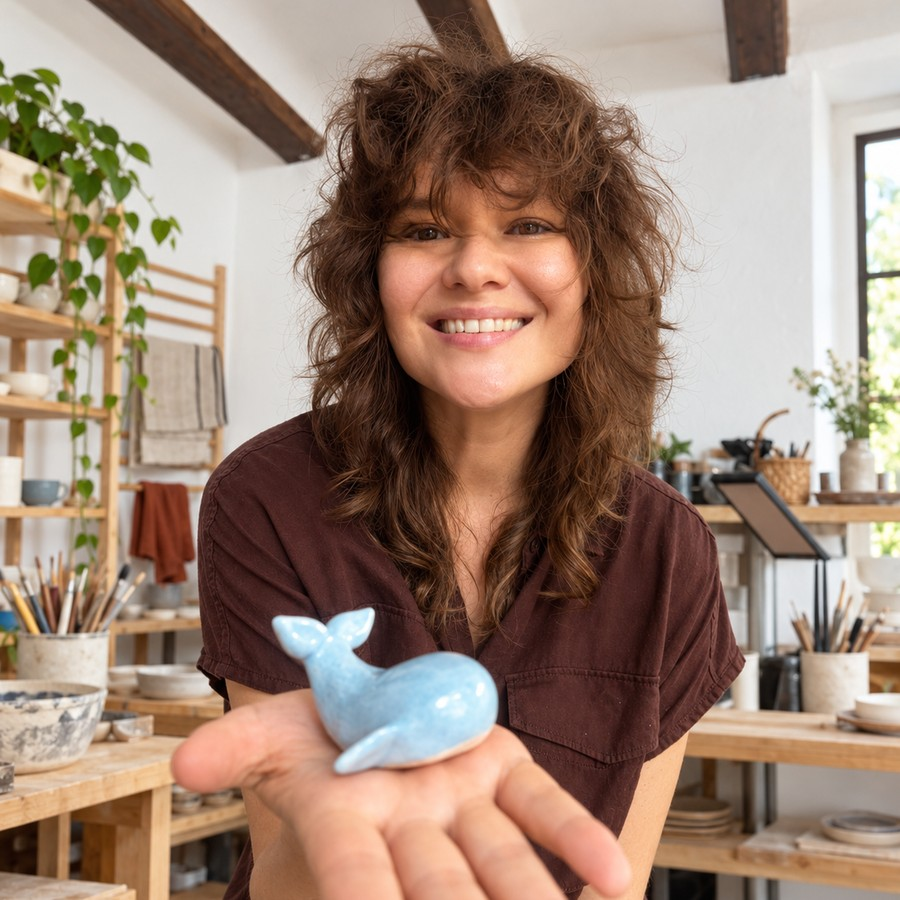
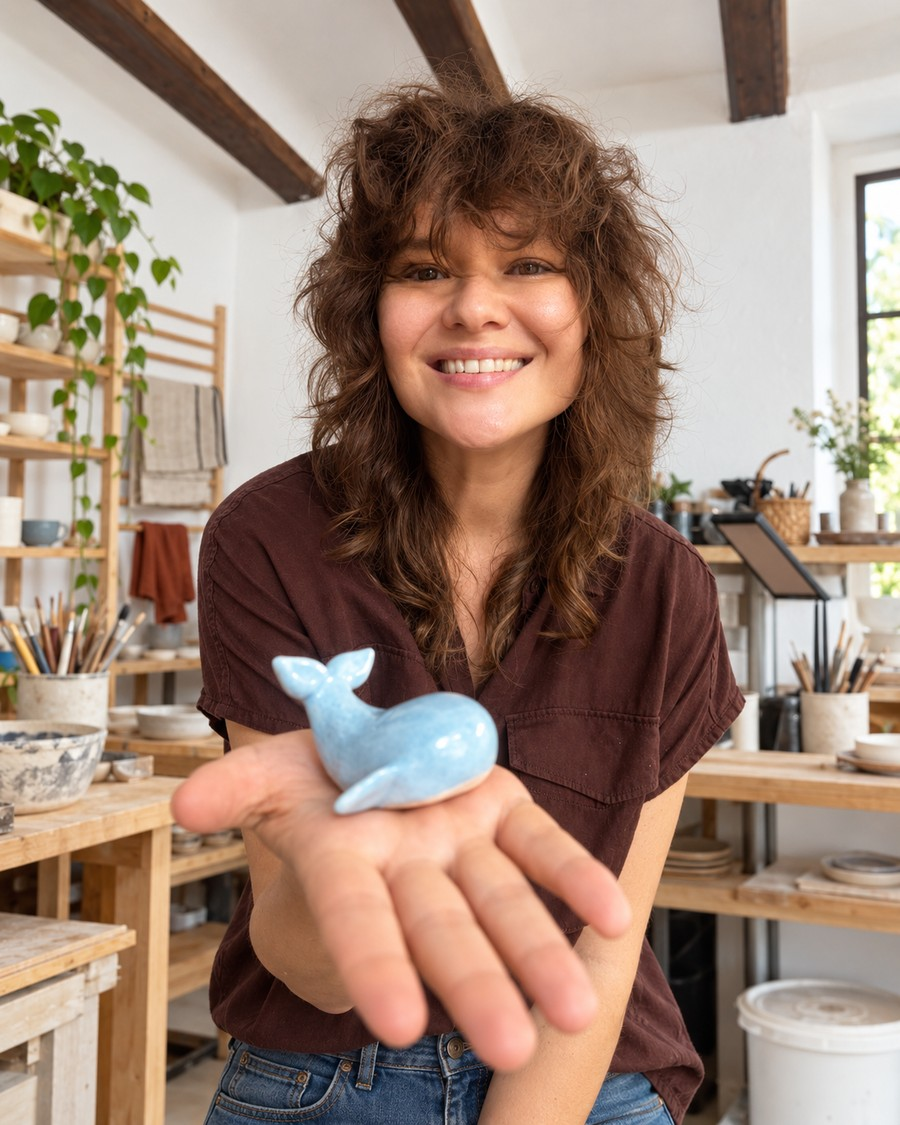
Max zoom-out Vita photo: full source height, top-biased crop
900×1125 from full 1122×1402 source (no height crop).
object-position: center 15% shows face+body+whale instead of center mass.

diff --git a/index.html b/index.html
@@ -264,7 +264,7 @@
       </div>
     </div></div></section>
 
-    <section id="people"><div class="wrap"><div class="makers__count"><span>50+</span> students through the studio since May 2026</div><div class="section-head"><div class="kicker">Who you’ll meet</div><h2 class="section-title">Artists who teach by making beside you.</h2></div><div class="makers"><article class="maker"><img src="assets/images/hero-1.jpg" alt="Korytsia teaching in her orange kimono at Saged.club"><div class="maker__text"><span class="maker__tag">Ceramic artist · Ukrainian / Russian</span><h3>Korytsia</h3><p>Slow, tactile hand-building with attention to the material. Korytsia leads children’s classes, family sessions and weekend workshops.</p></div></article><article class="maker"><img src="assets/images/vita-portrait.jpg" alt="Vita holding one of her colourful ceramic pieces" ><div class="maker__text"><span class="maker__tag">Ceramic instructor · English / Spanish</span><h3>Vita</h3><p>Friendly guided sessions for adults and kids—clear enough for a first experience, open enough to make the piece your own.</p></div></article></div></div></section>
+    <section id="people"><div class="wrap"><div class="makers__count"><span>50+</span> students through the studio since May 2026</div><div class="section-head"><div class="kicker">Who you’ll meet</div><h2 class="section-title">Artists who teach by making beside you.</h2></div><div class="makers"><article class="maker"><img src="assets/images/hero-1.jpg" alt="Korytsia teaching in her orange kimono at Saged.club"><div class="maker__text"><span class="maker__tag">Ceramic artist · Ukrainian / Russian</span><h3>Korytsia</h3><p>Slow, tactile hand-building with attention to the material. Korytsia leads children’s classes, family sessions and weekend workshops.</p></div></article><article class="maker"><img src="assets/images/vita-portrait.jpg" alt="Vita holding one of her colourful ceramic pieces" style="object-position:center 15%;"><div class="maker__text"><span class="maker__tag">Ceramic instructor · English / Spanish</span><h3>Vita</h3><p>Friendly guided sessions for adults and kids—clear enough for a first experience, open enough to make the piece your own.</p></div></article></div></div></section>
 
     <section class="section--sand"><div class="wrap"><div class="section-head"><div class="kicker">What you can make</div><h2 class="section-title">Useful, imperfect and completely yours.</h2></div><div class="made-grid"><img src="assets/images/product-1.jpg" alt="Handmade ceramic piece"><img src="assets/images/sept-2026/IMG_5036.jpg" alt="Handmade ceramic pieces and glaze test tiles"><img src="assets/images/sept-2026/IMG_3847.jpg" alt="Glazing tools and colour swatches at the studio"><img src="assets/images/gallery-beads.jpg" alt="Ceramic beads and small objects"></div></div></section>
 
